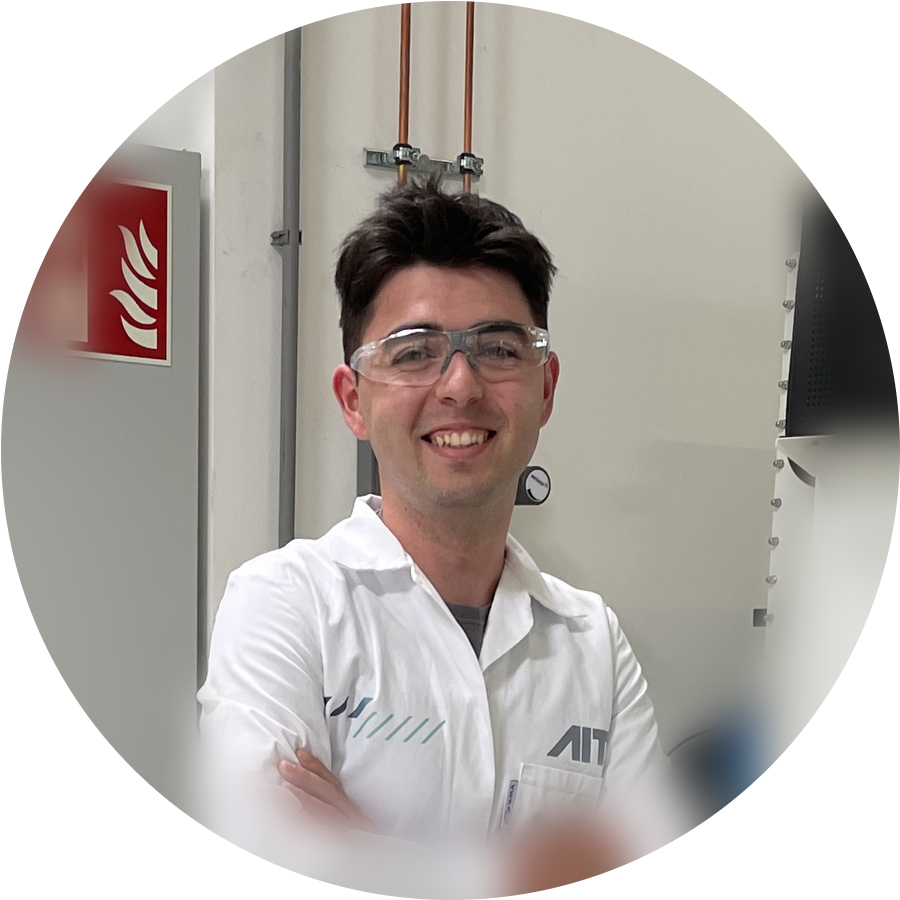
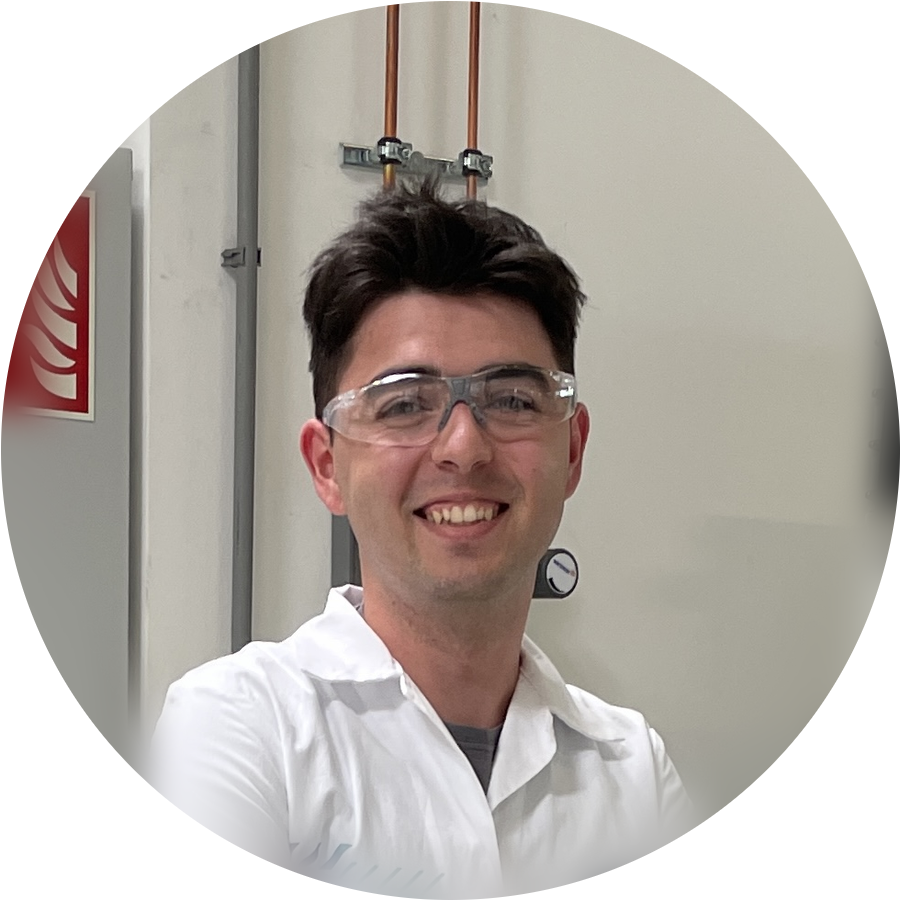
Portraet in About statt im Hero, Hamburger nach rechts
Zuerst stand das Bild ueber dem Namen im Hero. Falsch aus zwei Gruenden:
im Hero traegt es nichts zur Aussage bei, und der enge Avatarschnitt
schneidet genau das weg, worum es geht, naemlich den weissen AIT-Kittel.

Jetzt steht es in About, wo die Frage hingehoert, wer das ist. Der
Ausschnitt ist weiter gefasst, Kittel und Logo bleiben sichtbar, daneben
zwei Saetze zur Einordnung. Die Avatarfassung fuer den Hero ist wieder
entfernt, die engen Fassungen bleiben in media/portrait fuer ORCID und
LinkedIn, die schneiden selbst rund zu.

Das Hamburgermenue sass links, jetzt rechts, wo der Daumen ist.

diff --git a/src/app/about/page.tsx b/src/app/about/page.tsx
@@ -1,7 +1,7 @@
 'use client';
 
 import React, { useState } from 'react';
-import { HStack, VStack, Tag, Box, SimpleGrid, Spacer, Wrap, Text, Image } from '@chakra-ui/react';
+import { HStack, VStack, Tag, Box, SimpleGrid, Spacer, Wrap, Text, Image, Flex } from '@chakra-ui/react';
 import { useInView } from 'react-intersection-observer';
 import { FaReact, FaBriefcase, FaGraduationCap, FaCertificate, FaAtom, FaHandsHelping } from 'react-icons/fa'; // Importing the React icon
 import { SiDassaultsystemes } from 'react-icons/si';
@@ -265,6 +265,39 @@ export default function About() {
 
             <Box textAlign="left" maxWidth={{ base: "800px", xl: "1200px" }} width="100%" mx="auto">
                 <SectionHeading>About</SectionHeading>
+
+                {/* Das Portraet steht hier und nicht im Hero. Es ist kein
+                    Projekt und auch kein Aushaengeschild, sondern gehoert zu
+                    der Frage, wer das eigentlich ist. Der Ausschnitt ist
+                    bewusst weiter als ein Avatar, damit Kittel und Logo
+                    sichtbar bleiben. */}
+                <Flex
+                    mt={8}
+                    gap={{ base: 5, md: 8 }}
+                    align="center"
+                    direction={{ base: 'column', md: 'row' }}
+                    textAlign={{ base: 'center', md: 'left' }}
+                >
+                    <Image
+                        src="/images/profile-about.jpg"
+                        alt="Elias Bitsch at the AIT Center for Technology Experience"
+                        width={640}
+                        height={640}
+                        boxSize={{ base: '180px', md: '220px' }}
+                        borderRadius="full"
+                        objectFit="cover"
+                        flexShrink={0}
+                        border="3px solid"
+                        borderColor="#3C5AF0"
+                        boxShadow="0 10px 30px rgba(0,0,0,0.45)"
+                    />
+                    <Box fontSize={{ base: 'md', md: 'lg' }} color="gray.300" lineHeight="1.7">
+                        Technical assistant at the AIT Center for Technology Experience and
+                        Robotics Engineering master&apos;s student at UAS Technikum Wien. Most of
+                        my work happens between a lab bench and a robot cell: building the thing,
+                        then putting it in front of the people who are supposed to use it.
+                    </Box>
+                </Flex>
             </Box>
 
             <SimpleGrid

diff --git a/src/app/components/NavBar.tsx b/src/app/components/NavBar.tsx
@@ -104,7 +104,7 @@ const NavBar = () => {
                         icon={isOpen ? <CloseIcon /> : <HamburgerIcon />}
                         _hover={{ bg: 'rgba(255, 255, 255, 0.16)', color: 'white' }}
                         onClick={onToggle}
-                        mr="auto"
+                        ml="auto"
                         borderRadius="0.7rem"
                         backgroundColor="rgba(255, 255, 255, 0.08)"
                         color="white"

diff --git a/media/tools/portrait.py b/media/tools/portrait.py
@@ -22,12 +22,15 @@ BLUR = 20                   # Staerke des weichen Hintergrunds
 # Scharfe Zone als Ellipse in Anteilen der Kante. Etwas hoeher als die
 # Mitte, weil das Gesicht oben sitzt, und unten breiter fuer die Schultern.
 E_CX, E_CY = 0.50, 0.44
-E_RX, E_RY = 0.36, 0.42
+E_RX, E_RY = 0.40, 0.46
 FEATHER = 0.22
 
 # Quadrat im Original. Mittelpunkt liegt auf dem Gesicht, die Kante ist so
 # gewaehlt, dass Kopf und Schultern hineinpassen.
-CROP_CX, CROP_CY, CROP_SIDE = 1075, 1250, 1250
+# Enger als eine Portraetaufnahme, weil das Bild fast immer klein und rund
+# ausgegeben wird. Bei 160 Pixeln Durchmesser bleibt vom Gesicht sonst kaum
+# etwas uebrig, und die Ecken schneidet der Kreis ohnehin weg.
+CROP_CX, CROP_CY, CROP_SIDE = 1075, 1165, 980
 
 im = Image.open(SRC).convert('RGB')
 W, H = im.size
